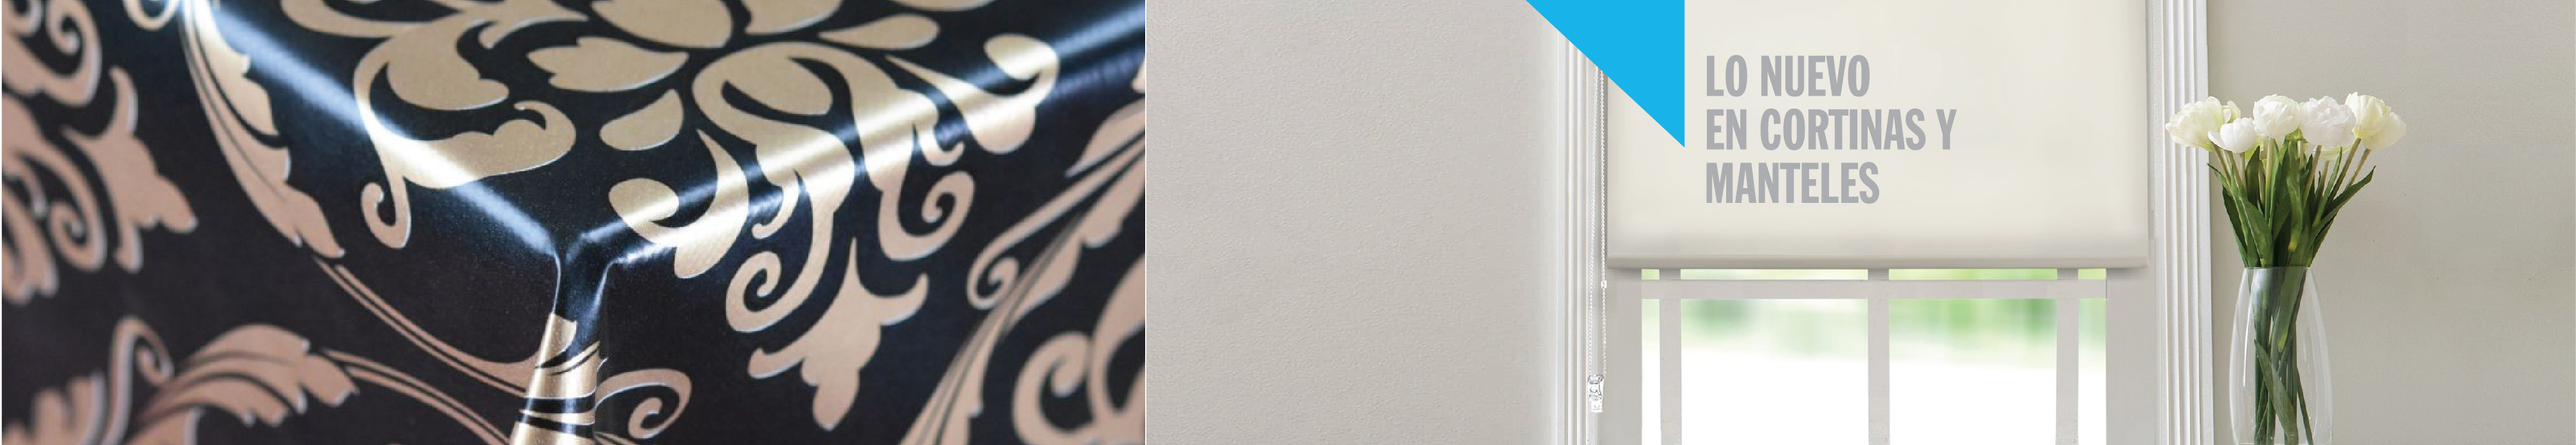
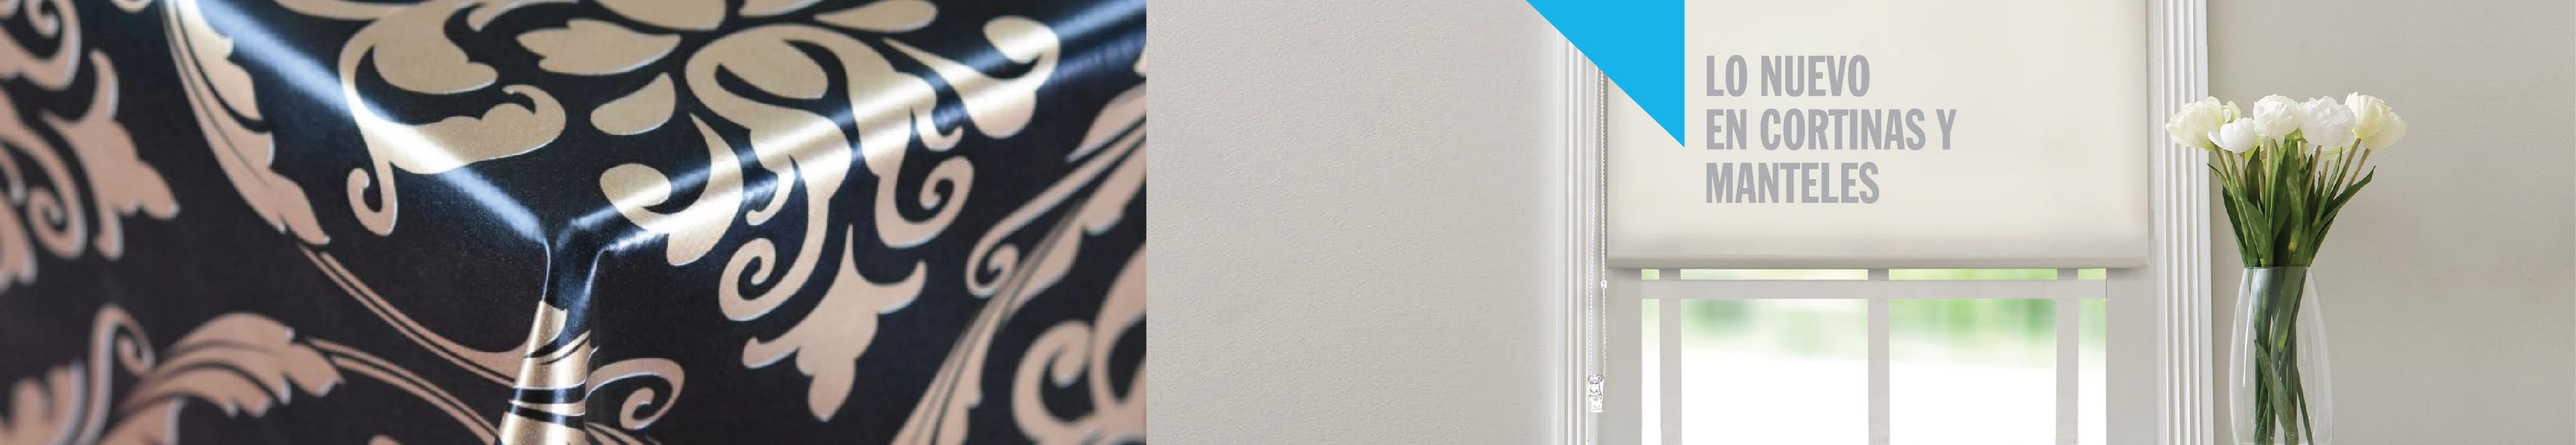
arreglado imagenes carousel, flechita dropdown

Changed region(s): [[0.0, 0.0, 0.4683, 1.0], [0.1249, 0.9697, 0.1561, 1.0]]

diff --git a/frontend/web/css/menu-header.css b/frontend/web/css/menu-header.css
@@ -12,7 +12,7 @@ and open the template in the editor.
 @import url('https://fonts.googleapis.com/css?family=Oswald:400,700&display=swap');
 
 
-h1,h2,h3,h4,h5,h6,.h1,.h2,.h3,.h4,.h5,.h6{
+h1,h2,h3,.h1,.h2,.h3{
     font-family: 'Oswald', sans-serif;
 }
 
@@ -20,9 +20,9 @@ h1,h2,h3
 {
     font-weight: 600;
 }
-h4,h5,h6{
+/*h4,h5,h6{
     font-weight: 500;
-}
+}*/
 
 
 .logout-btn{
@@ -43,18 +43,22 @@ body, html{
     /*padding-top: 106px;*/
 }
 
-.carousel img{
+/*.carousel {
     height: 226px;
     width: 100%;
-    /*margin: auto;*/
+    margin-right: 30%;
+    margin-left: -66%;
+    margin: auto;
     object-fit: cover;
 
-}
+}*/
 
-.carousel-item{
+.carousel-item > div{
     /*display: flex;*/
     /*justify-content: center;*/
-    height: 226px;  
+    height: 226px;
+    background-size: cover;
+    background-position: center;
     /*overflow: hidden;*/
 }
 
@@ -77,7 +81,7 @@ body, html{
     vertical-align: central;
     font-size: 0.7rem;
     /*padding-bottom: 10px;*/
-    color: #2F8CAF;
+    /*color: #2F8CAF;*/
 }
 
 .texsim-search-input, .texsim-search-input:focus{
@@ -298,7 +302,7 @@ body, html{
 .modal-sidebar .navbar-brand 
 {
     margin-top: 1em;
-    width: 80%;
+    width: 90%;
 }
 
 .navbar-movil .navbar-brand img {
@@ -363,6 +367,56 @@ body, html{
 }
 
 
+@media screen and (max-width: 360px)  {
+    .modal-sidebar .side-menu-link, .modal-sidebar a, .dir-sucursales{
+        font-family: 'Oswald', sans-serif;
+        font-size: 0.8rem ;
+    }   
+
+    .modal-sidebar .fa{
+        font-size: 1.2rem;
+        margin-right: 0.5rem;
+        /*margin-right: 18px;*/
+
+    }
+
+    .arrow-up{
+         
+        border-left: 7px solid transparent !important;
+        border-right: 7px solid transparent !important;
+
+        border-bottom:  11px solid #0074ab !important;
+    }
+
+
+
+
+    .arrow-down{
+         
+        border-left: 7px solid transparent !important;
+        border-right: 7px solid transparent !important;
+
+        border-top: 11px solid #0074ab !important;
+    }
+
+
+
+}
+
+.carousel-item > div{
+    height: 226px;
+    background-size: cover;
+    background-position: center;
+    /*overflow: hidden;*/
+}
+
+@media screen and (max-width: 660px)  {
+    .carousel-item > div{
+        height: 200px;
+        background-position-x: 570px;
+    }
+}
+
 
 /* MODAL FADE LEFT RIGHT BOTTOM */
 /*.modal.fade:not(.in).left .modal-dialog {
@@ -396,3 +450,28 @@ body, html{
     min-height:100vh;
     border:0;
 }
+
+
+.arrow-up{
+    display: inline-block;
+    width: 0; 
+    height: 0; 
+    border-left: 9px solid transparent;
+    border-right: 9px solid transparent;
+
+    border-bottom:  14px solid #0074ab;
+}
+
+
+
+
+.arrow-down{
+    display: inline-block;
+    width: 0; 
+    height: 0; 
+    border-left: 9px solid transparent;
+    border-right: 9px solid transparent;
+
+    border-top: 14px solid #0074ab;
+}
+

diff --git a/frontend/web/js/texsim.js b/frontend/web/js/texsim.js
@@ -1,4 +1,15 @@
 
+$('#side-menu-suc-dir').on('show.bs.collapse', function () {
+    var arrow = $('.arrow-down');
+    arrow.removeClass('arrow-down');
+    arrow.addClass('arrow-up');
+});
+$('#side-menu-suc-dir').on('hide.bs.collapse', function () {
+    var arrow = $('.arrow-up');
+    arrow.removeClass('arrow-up');
+    arrow.addClass('arrow-down');
+});
+
 $(document).ready(function () {
     $(".modal a").not(".dropdown-toggle").on("click", function () {
         $(".modal").modal("hide");

diff --git a/frontend/views/layouts/menu.php b/frontend/views/layouts/menu.php
@@ -16,10 +16,10 @@
 
                     <div class="collapse navbar-collapse" id="navbarSupportedContent">
                         <div class="menu-container-div d-flex flex-column w-100 ">
-                            <div  class="sucursales-div d-flex justify-content-end">
+                            <div  class="sucursales-div d-flex justify-content-end align-items-center">
                                 <div class="direcciones-sucursales d-flex justify-content-end align-items-center">
                                     <div id="sucursales-dir" class="collapse text-light mr-2">
-                                        <span>
+                                        <span class="text-blue">
                                             Lavalle 2571 - 2120 0550 / Feria: Azcuenaga 580 - 2120 0580 / Feria: Olavarria 2348 Villa Celina - 6072 6831
                                         </span>
                                     </div>
@@ -98,7 +98,7 @@
                                             $categorias = \common\models\Categoria::find()->where(['moda' => true])->all();
                                             foreach ($categorias as $categoria):
                                                 ?>
-                                                <a data-categoria="<?= $categoria->id_categoria ?>" class="dropdown-item ellipses" href="<?= yii\helpers\Url::to(['por-categoria', 'categoria_id' => $categoria->id_categoria]) ?>"><?= $categoria->nombre_categoria ?></a>
+                                                <a data-categoria="<?= $categoria->id_categoria ?>" class="pt-0 pb-0 text-blue dropdown-item ellipses" href="<?= yii\helpers\Url::to(['por-categoria', 'categoria_id' => $categoria->id_categoria]) ?>"><?= $categoria->nombre_categoria ?></a>
                                             <?php endforeach; ?>
 
                                     </li>
@@ -114,7 +114,7 @@
                                             $categorias = \common\models\Categoria::find()->where(['hogar' => true])->all();
                                             foreach ($categorias as $categoria):
                                                 ?>
-                                                <a data-categoria="<?= $categoria->id_categoria ?>" class="dropdown-item ellipses" href="<?= yii\helpers\Url::to(['por-categoria', 'categoria_id' => $categoria->id_categoria]) ?>"><?= $categoria->nombre_categoria ?></a>
+                                                <a data-categoria="<?= $categoria->id_categoria ?>" class="pt-0 pb-0 dropdown-item ellipses" href="<?= yii\helpers\Url::to(['por-categoria', 'categoria_id' => $categoria->id_categoria]) ?>"><?= $categoria->nombre_categoria ?></a>
                                             <?php endforeach; ?>
                                     </li>
 
@@ -198,7 +198,7 @@
 <div class="modal fade left modal-sidebar" id="sidebar-left" tabindex="-1" role="dialog">
     <div class="modal-dialog" role="document">
         <div class="modal-content">
-            <div class="modal-header">
+            <div class="modal-header pb-2">
                 <a class="navbar-brand d-flex align-items-end w-100 pr-3 pb-0" href="/">
                     <img class=" img-fluid p-0 " src="img/logotexsim-02.svg">
 
@@ -209,7 +209,7 @@
                     <ul class="navbar-nav">
 
                         <li class="nav-item item-categoria-padre">
-                            <a class="nav-link pt-0" href="#" id="" >
+                            <a class="pb-1 pt-0" href="#" id="" >
                                 INDUMENTARIA
                             </a>
                         </li>
@@ -229,7 +229,7 @@
                     <ul class="navbar-nav">
 
                         <li class="nav-item item-categoria-padre">
-                            <a class="nav-link" href="#" id="" >
+                            <a class="pb-1" href="#" id="" >
                                 hogar
                             </a>
                         </li>
@@ -249,32 +249,7 @@
                     <a href="instagram.com/texsim"><i class="fa fa-instagram text-light"></i></a>
                     <a href="facebook.com/texsim"><i class="fa fa-facebook text-light"></i></a>
                     <a target="_blanc" href="https://api.whatsapp.com/send?phone=541135386219&text=Me%20gustar%C3%ADa%20saber%20mas%20sobre%20sus%20productos.%20Gracias&source=&data=#"><i class="fa fa-whatsapp text-light"></i></a>
-                    <div class="d-inline-block">
-                        <?php if (Yii::$app->user->isGuest) { ?>
-                            <div class=" text-white" data-toggle="modal" data-target="#login-modal">
-                                <i style="" class="fa fa-lock "></i>
-                                <!--<span>Login</span>-->
-                                <!--<span class="d-xs-block d-sm-none">Login</span>-->
 
-                            </div>
-
-                            <?php
-                        } else {
-                            echo '<i style="" class="fa fa-lock header-icon d-xs-block d-sm-none "></i>';
-                            echo \yii\helpers\Html::beginForm(['/user/logout'], 'post');
-                            ?>
-                            <button name="logout" class="btn text-light logout-btn" onclick="$('form').submit()">
-                                <span>Logout(<?= Yii::$app->user->identity->username ?>)</span>
-                            </button>
-                            <?php
-//                                echo \yii\helpers\Html::submitButton(
-////                                        'Logout (' . Yii::$app->user->identity->username . ')', ['class' => 'btn text-white word-break', 'name' => 'logout']
-//                                        'Logout', ['class' => 'text-white nav-link p-0 ml-1', 'name' => 'logout']
-//                                );
-                            echo \yii\helpers\Html::endForm();
-                        }
-                        ?>
-                    </div>
                 </div>
                 <div class="side-menu-consultas text-white mb-3">
                     <a> 
@@ -308,9 +283,13 @@
                     ?>
                 </div>
                 <div class="side-menu-sucursales mb-3">
-                    <div class="side-menu-link cursor-pointer" href="#" data-target="#side-menu-suc-dir" id="" role="button" data-toggle="collapse" >
-                        sucursales
+
+                    <div class="side-menu-link cursor-pointer text-blue d-inline" data-target="#side-menu-suc-dir" id="" role="button" data-toggle="collapse" >
+                        <span>sucursales</span>
+                        <div class="arrow-down"></div>
                     </div>
+
+
                     <div id="side-menu-suc-dir" class="collapse dir-sucursales" aria-labelledby="navbarDropdown">
                         <div><span class="text-blue">Lavalle 2571 / 2120 0550</span> </div>
                         <div><span class="text-blue">Azcuenaga 580 / 2120 0580</span></div>

diff --git a/frontend/views/texsim/_carousel.php b/frontend/views/texsim/_carousel.php
@@ -7,16 +7,39 @@
     </ol>
     <div class="carousel-inner">
         <div class="carousel-item active">
-            <img class="d-block" src="img/header-fototexsim-03.jpg" alt="">
+            <div class="d-block" style='background-image: url(img/header-fototexsim-03.jpg)'></div>
         </div>
         <div class="carousel-item">
-            <img class="d-block" src="img/header-fototexsim-04.jpg" alt="">
+            <div class="d-block" style='background-image: url(img/header-fototexsim-04.jpg)'></div>
         </div>
         <div class="carousel-item">
-            <img class="d-block" src="img/header-fototexsim-05.jpg" alt="">
+            <div class="d-block" style='background-image: url(img/header-fototexsim-05.jpg)'></div>
         </div>
         <div class="carousel-item">
-            <img class="d-block" src="img/header-fototexsim-06.jpg" alt="">
+            <div class="d-block" style='background-image: url(img/header-fototexsim-06.jpg)'></div>
         </div>
     </div>
 </div>
+
+<!--<div id="carouselExampleIndicators" class="carousel slide d-sm-none" data-ride="carousel">
+    <ol class="carousel-indicators justify-content-end">
+        <li data-target="#carouselExampleIndicators" data-slide-to="0" class="active"></li>
+        <li data-target="#carouselExampleIndicators" data-slide-to="1"></li>
+        <li data-target="#carouselExampleIndicators" data-slide-to="2"></li>
+        <li data-target="#carouselExampleIndicators" data-slide-to="3"></li>
+    </ol>
+    <div class="carousel-inner">
+        <div class="carousel-item active">
+            <img class="d-block" src="img/header-fototexsim-mobile-11.jpg" alt="">
+        </div>
+        <div class="carousel-item">
+            <img class="d-block" src="img/header-fototexsim-mobile-12.jpg" alt="">
+        </div>
+        <div class="carousel-item">
+            <img class="d-block" src="img/header-fototexsim-mobile-13.jpg" alt="">
+        </div>
+        <div class="carousel-item">
+            <img class="d-block" src="img/header-fototexsim-mobile-14.jpg" alt="">
+        </div>
+    </div>
+</div>-->
